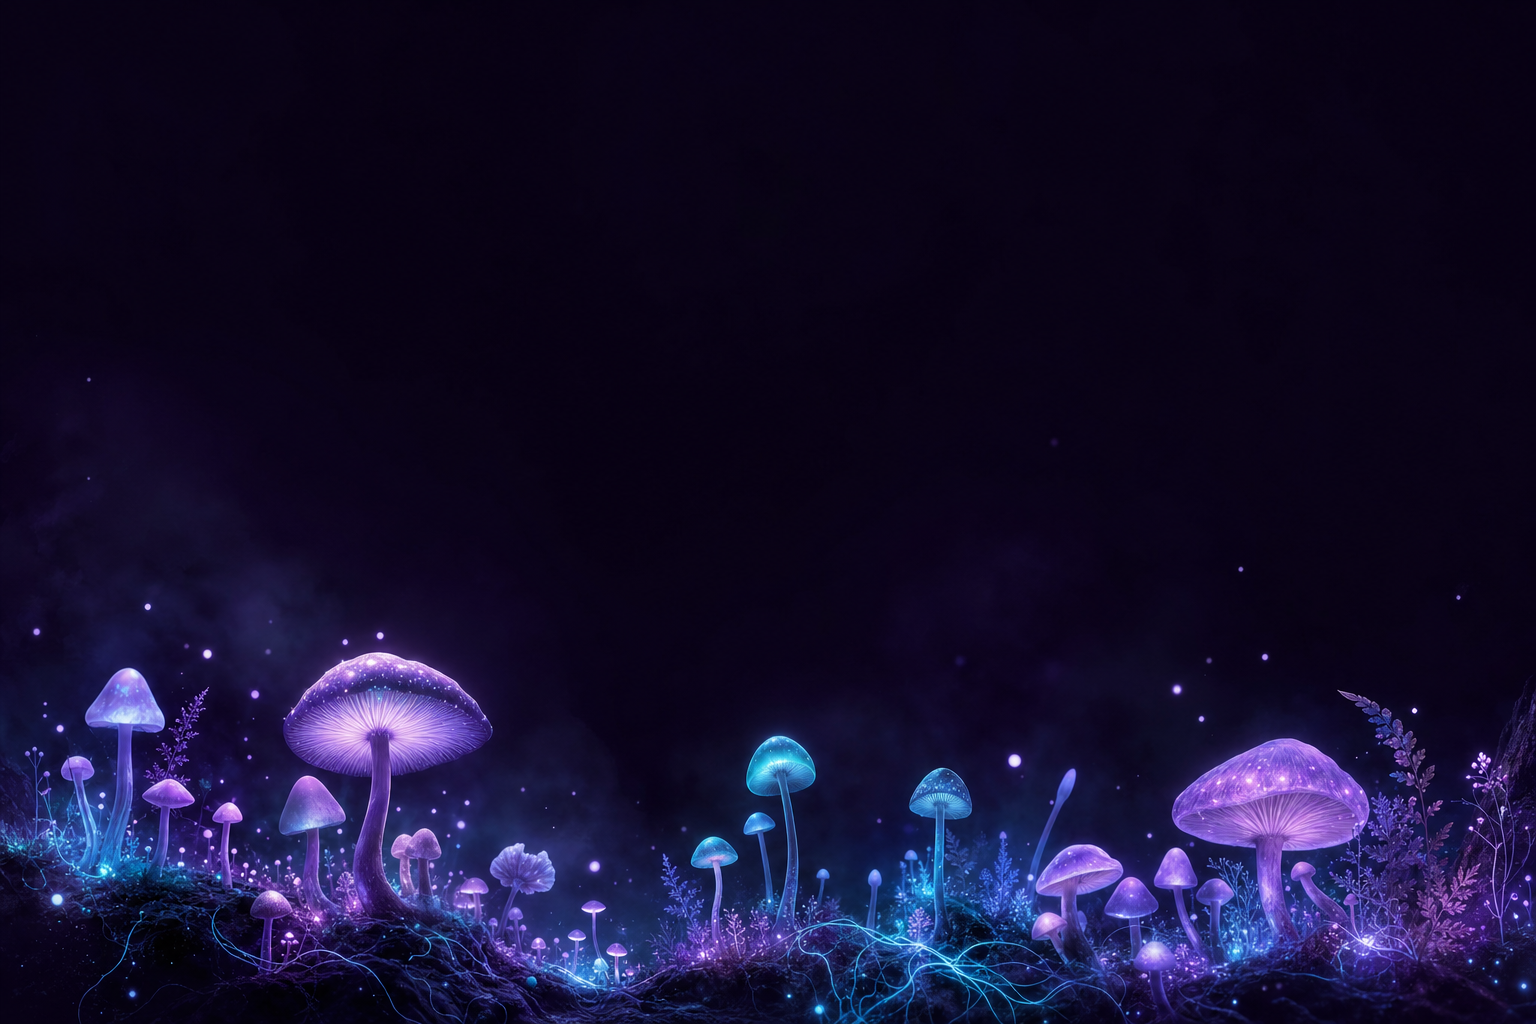
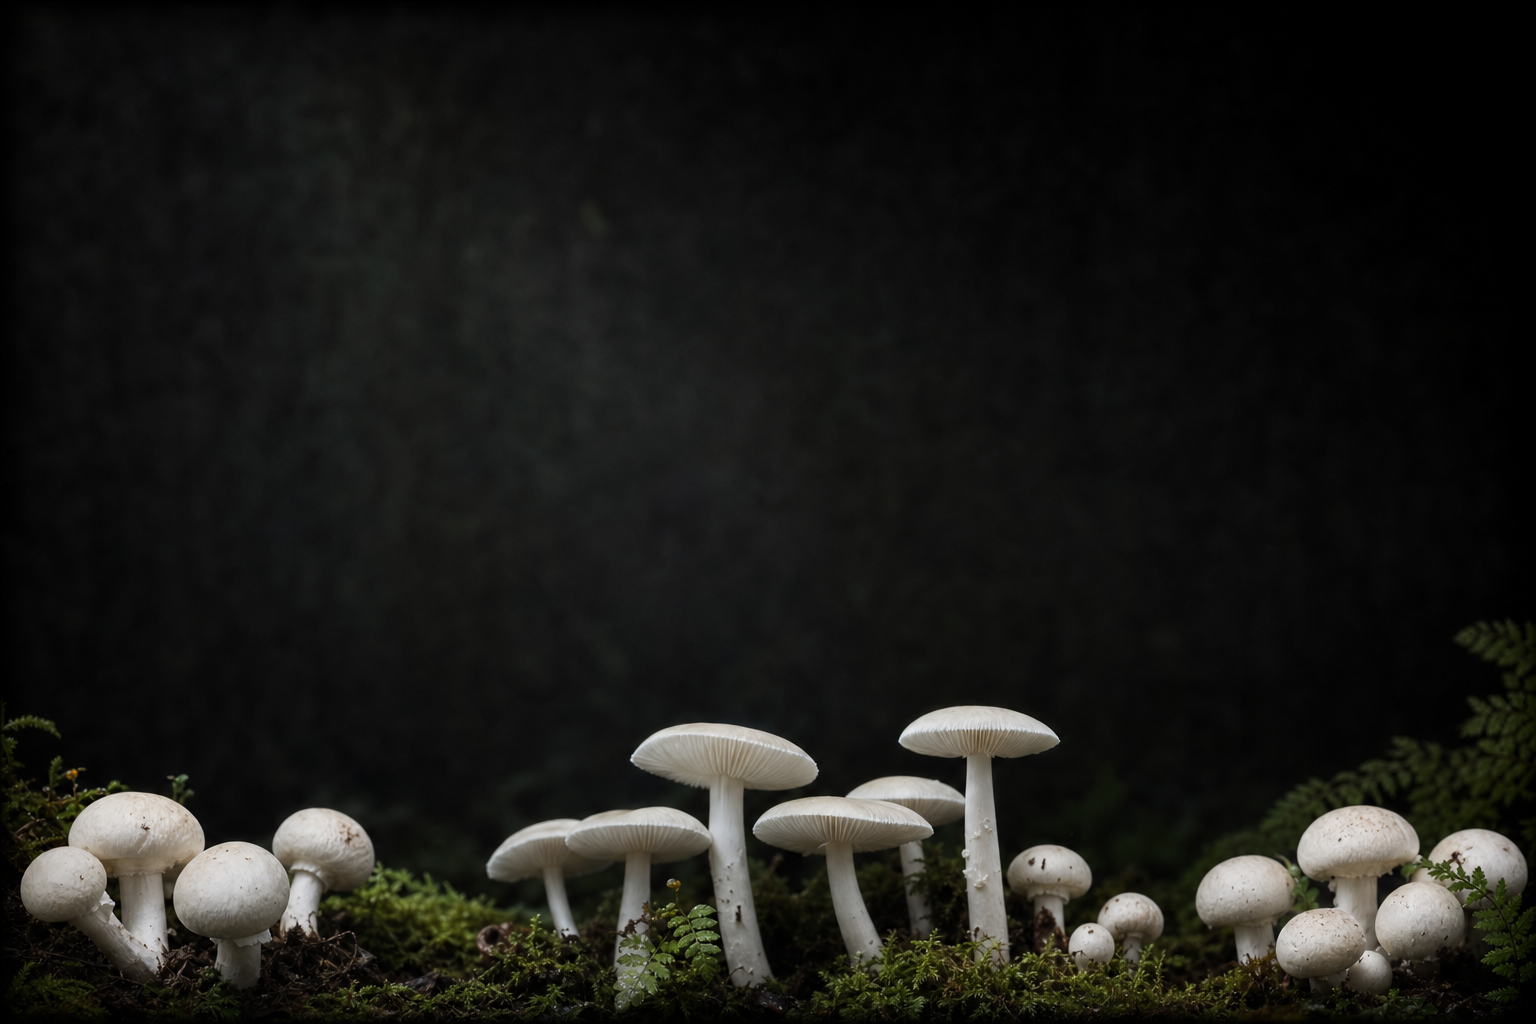
Recolor to red/white/purple, realistic white mushrooms, full-screen spores
- New palette: mushroom-red primary, purple accent (the --nebula token),
  clean warm whites in light mode and a deep near-black in dark mode
- Replace the background with a realistic plain-white mushroom photo
- Spores now tile across both axes so the sparkle fills the whole
  viewport instead of a thin band near the bottom
- Retune body glows, text-cosmic gradient, glow utility, hardcoded
  component glows, and the PWA manifest theme color to match

diff --git a/src/index.css b/src/index.css
@@ -97,96 +97,96 @@
   --radius: 0.75rem;
 
   --background: hsl(0 0% 100%);
-  --foreground: hsl(262 30% 12%);
+  --foreground: hsl(0 10% 12%);
 
   --card: hsl(0 0% 100%);
-  --card-foreground: hsl(262 30% 12%);
+  --card-foreground: hsl(0 10% 12%);
 
   --popover: hsl(0 0% 100%);
-  --popover-foreground: hsl(262 30% 12%);
+  --popover-foreground: hsl(0 10% 12%);
 
-  --primary: hsl(262 73% 57%);
+  --primary: hsl(0 72% 51%);
   --primary-foreground: hsl(0 0% 100%);
 
-  --secondary: hsl(262 40% 96%);
-  --secondary-foreground: hsl(262 47% 24%);
+  --secondary: hsl(0 30% 96%);
+  --secondary-foreground: hsl(0 40% 24%);
 
-  --muted: hsl(260 24% 96%);
-  --muted-foreground: hsl(258 12% 46%);
+  --muted: hsl(20 14% 96%);
+  --muted-foreground: hsl(15 8% 44%);
 
-  --accent: hsl(262 60% 95%);
-  --accent-foreground: hsl(262 47% 24%);
+  --accent: hsl(270 40% 95%);
+  --accent-foreground: hsl(270 50% 24%);
 
   --destructive: hsl(0 84.2% 60.2%);
   --destructive-foreground: hsl(0 0% 100%);
 
-  --border: hsl(260 24% 90%);
-  --input: hsl(260 24% 90%);
-  --ring: hsl(262 73% 57%);
+  --border: hsl(20 14% 90%);
+  --input: hsl(20 14% 90%);
+  --ring: hsl(0 72% 51%);
 
-  --nebula: hsl(190 95% 42%);
+  --nebula: hsl(270 65% 55%);
 
-  --chart-1: hsl(262 73% 57%);
-  --chart-2: hsl(190 95% 42%);
-  --chart-3: hsl(160 60% 45%);
-  --chart-4: hsl(43 96% 56%);
-  --chart-5: hsl(330 81% 60%);
+  --chart-1: hsl(0 72% 51%);
+  --chart-2: hsl(270 65% 55%);
+  --chart-3: hsl(38 92% 50%);
+  --chart-4: hsl(199 70% 48%);
+  --chart-5: hsl(142 50% 45%);
 
-  --sidebar: hsl(260 30% 98%);
-  --sidebar-foreground: hsl(262 20% 26%);
-  --sidebar-primary: hsl(262 73% 57%);
+  --sidebar: hsl(20 20% 98%);
+  --sidebar-foreground: hsl(0 10% 26%);
+  --sidebar-primary: hsl(0 72% 51%);
   --sidebar-primary-foreground: hsl(0 0% 100%);
-  --sidebar-accent: hsl(262 40% 94%);
-  --sidebar-accent-foreground: hsl(262 47% 24%);
-  --sidebar-border: hsl(260 24% 90%);
-  --sidebar-ring: hsl(262 73% 57%);
+  --sidebar-accent: hsl(270 40% 95%);
+  --sidebar-accent-foreground: hsl(270 50% 24%);
+  --sidebar-border: hsl(20 14% 90%);
+  --sidebar-ring: hsl(0 72% 51%);
 }
 
 .dark {
-  --background: hsl(258 45% 5%);
-  --foreground: hsl(255 30% 95%);
+  --background: hsl(150 12% 5%);
+  --foreground: hsl(40 20% 95%);
 
-  --card: hsl(259 38% 9%);
-  --card-foreground: hsl(255 30% 95%);
+  --card: hsl(150 10% 9%);
+  --card-foreground: hsl(40 20% 95%);
 
-  --popover: hsl(259 40% 8%);
-  --popover-foreground: hsl(255 30% 95%);
+  --popover: hsl(150 12% 7%);
+  --popover-foreground: hsl(40 20% 95%);
 
-  --primary: hsl(264 90% 72%);
-  --primary-foreground: hsl(260 50% 8%);
+  --primary: hsl(0 80% 62%);
+  --primary-foreground: hsl(0 0% 100%);
 
-  --secondary: hsl(260 32% 16%);
-  --secondary-foreground: hsl(255 30% 95%);
+  --secondary: hsl(150 8% 16%);
+  --secondary-foreground: hsl(40 20% 95%);
 
-  --muted: hsl(260 28% 14%);
-  --muted-foreground: hsl(256 18% 68%);
+  --muted: hsl(150 8% 14%);
+  --muted-foreground: hsl(40 10% 68%);
 
-  --accent: hsl(260 32% 20%);
-  --accent-foreground: hsl(255 30% 95%);
+  --accent: hsl(270 30% 18%);
+  --accent-foreground: hsl(40 20% 95%);
 
-  --destructive: hsl(351 80% 60%);
+  --destructive: hsl(0 80% 62%);
   --destructive-foreground: hsl(0 0% 100%);
 
-  --border: hsl(262 30% 20%);
-  --input: hsl(262 30% 18%);
-  --ring: hsl(264 90% 72%);
+  --border: hsl(150 10% 18%);
+  --input: hsl(150 10% 16%);
+  --ring: hsl(0 80% 62%);
 
-  --nebula: hsl(190 90% 60%);
+  --nebula: hsl(270 70% 68%);
 
-  --chart-1: hsl(264 90% 72%);
-  --chart-2: hsl(190 90% 60%);
-  --chart-3: hsl(160 65% 55%);
-  --chart-4: hsl(43 96% 64%);
-  --chart-5: hsl(322 85% 68%);
+  --chart-1: hsl(0 80% 62%);
+  --chart-2: hsl(270 70% 68%);
+  --chart-3: hsl(38 92% 58%);
+  --chart-4: hsl(199 75% 58%);
+  --chart-5: hsl(142 55% 55%);
 
-  --sidebar: hsl(259 42% 7%);
-  --sidebar-foreground: hsl(255 24% 88%);
-  --sidebar-primary: hsl(264 90% 72%);
-  --sidebar-primary-foreground: hsl(260 50% 8%);
-  --sidebar-accent: hsl(260 32% 15%);
-  --sidebar-accent-foreground: hsl(255 30% 95%);
-  --sidebar-border: hsl(262 30% 18%);
-  --sidebar-ring: hsl(264 90% 72%);
+  --sidebar: hsl(150 12% 7%);
+  --sidebar-foreground: hsl(40 16% 88%);
+  --sidebar-primary: hsl(0 80% 62%);
+  --sidebar-primary-foreground: hsl(0 0% 100%);
+  --sidebar-accent: hsl(270 30% 16%);
+  --sidebar-accent-foreground: hsl(40 20% 95%);
+  --sidebar-border: hsl(150 10% 16%);
+  --sidebar-ring: hsl(0 80% 62%);
 }
 
 @layer base {
@@ -215,28 +215,30 @@
     background:
       radial-gradient(
         38rem 38rem at 15% 105%,
-        hsl(264 90% 60% / 0.20),
+        hsl(0 72% 50% / 0.18),
         transparent 60%
       ),
       radial-gradient(
         34rem 34rem at 85% 108%,
-        hsl(190 90% 55% / 0.16),
+        hsl(270 65% 55% / 0.16),
         transparent 60%
       ),
       radial-gradient(
         44rem 44rem at 50% 120%,
-        hsl(290 85% 62% / 0.14),
+        hsl(0 70% 52% / 0.12),
         transparent 62%
       ),
       radial-gradient(
         40rem 40rem at 80% -10%,
-        hsl(264 70% 50% / 0.10),
+        hsl(270 60% 55% / 0.10),
         transparent 60%
       );
   }
 
   /* Mycelium grove: a row of glowing mushrooms anchored to the bottom of the
-     viewport, with drifting spores floating up through the dark above them. */
+     viewport, plus drifting spores that fill the whole screen. Each spore
+     layer is a small tile repeated across both axes so the sparkle covers the
+     entire viewport (not just a band), with a slow upward drift. */
   body::after {
     content: '';
     position: fixed;
@@ -244,30 +246,29 @@
     z-index: -1;
     pointer-events: none;
     background-image:
-      /* Drifting spores rising from the grove floor. */
-      radial-gradient(1.5px 1.5px at 20% 92%, hsl(264 80% 85% / 0.9), transparent),
-      radial-gradient(1px 1px at 75% 88%, hsl(190 80% 80% / 0.8), transparent),
-      radial-gradient(1.5px 1.5px at 50% 95%, hsl(290 80% 82% / 0.85), transparent),
-      radial-gradient(1px 1px at 85% 96%, hsl(264 80% 85% / 0.7), transparent),
-      radial-gradient(1px 1px at 33% 86%, hsl(190 80% 82% / 0.7), transparent),
-      radial-gradient(1.5px 1.5px at 8% 97%, hsl(290 80% 82% / 0.8), transparent),
-      radial-gradient(1px 1px at 65% 90%, hsl(255 30% 96% / 0.5), transparent),
+      /* Drifting spores — one dot per tile, tiled across the whole screen. */
+      radial-gradient(2px 2px at 30px 40px, hsl(40 30% 96% / 0.9), transparent),
+      radial-gradient(1.5px 1.5px at 140px 90px, hsl(270 65% 75% / 0.8), transparent),
+      radial-gradient(2px 2px at 90px 180px, hsl(0 70% 70% / 0.7), transparent),
+      radial-gradient(1px 1px at 200px 50px, hsl(40 30% 96% / 0.7), transparent),
+      radial-gradient(1.5px 1.5px at 250px 160px, hsl(270 65% 78% / 0.7), transparent),
+      radial-gradient(1px 1px at 60px 120px, hsl(40 30% 96% / 0.6), transparent),
       /* The mushroom grove, anchored to the bottom edge, spanning full width. */
       image-set(url('/mushrooms.png') 1x);
     background-repeat:
-      repeat-x, repeat-x, repeat-x, repeat-x, repeat-x, repeat-x, repeat-x,
+      repeat, repeat, repeat, repeat, repeat, repeat,
       no-repeat;
     background-position:
-      0 0, 0 0, 0 0, 0 0, 0 0, 0 0, 0 0,
+      0 0, 0 0, 0 0, 0 0, 0 0, 0 0,
       center bottom;
     background-size:
-      320px 320px, 280px 280px, 360px 360px, 300px 300px, 340px 340px, 260px 260px, 380px 380px,
+      300px 300px, 360px 360px, 320px 320px, 280px 280px, 340px 340px, 260px 260px,
       100% auto;
-    opacity: 0.55;
+    opacity: 0.5;
   }
 
   .dark body::after {
-    opacity: 0.9;
+    opacity: 0.85;
   }
 
   @media (prefers-reduced-motion: no-preference) {
@@ -282,12 +283,12 @@
 @keyframes spore-drift {
   from {
     background-position:
-      0 0, 0 0, 0 0, 0 0, 0 0, 0 0, 0 0,
+      0 0, 0 0, 0 0, 0 0, 0 0, 0 0,
       center bottom;
   }
   to {
     background-position:
-      0 -200px, 0 -240px, 0 -180px, 0 -220px, 0 -260px, 0 -200px, 0 -300px,
+      0 -300px, 0 -360px, 0 -320px, 0 -280px, 0 -340px, 0 -260px,
       center bottom;
   }
 }
@@ -312,19 +313,19 @@
   }
 }
 
-/* Soft outer glow tuned to the primary nebula color. */
+/* Soft outer glow tuned to the primary mushroom-red color. */
 @utility glow {
   box-shadow:
-    0 0 0 1px hsl(264 90% 72% / 0.12),
-    0 8px 40px -8px hsl(264 90% 60% / 0.35);
+    0 0 0 1px hsl(0 80% 62% / 0.12),
+    0 8px 40px -8px hsl(0 80% 55% / 0.35);
 }
 
-/* Gradient text in the cosmic violet -> cyan sweep. */
+/* Gradient text sweeping from mushroom red through to forest purple. */
 @utility text-cosmic {
   background-image: linear-gradient(
     100deg,
     var(--primary) 0%,
-    hsl(290 85% 72%) 42%,
+    hsl(330 75% 60%) 45%,
     var(--nebula) 100%
   );
   background-clip: text;

diff --git a/src/components/Layout.tsx b/src/components/Layout.tsx
@@ -30,7 +30,7 @@ function Logo() {
       className="group flex items-center gap-2.5 font-display font-semibold text-lg tracking-tight focus-visible:outline-none focus-visible:ring-2 focus-visible:ring-ring rounded-md"
     >
       <span
-        className="grid size-9 place-items-center text-2xl leading-none transition-transform duration-500 group-hover:rotate-[12deg] group-hover:scale-110 drop-shadow-[0_0_10px_hsl(264_90%_72%/0.55)]"
+        className="grid size-9 place-items-center text-2xl leading-none transition-transform duration-500 group-hover:rotate-[12deg] group-hover:scale-110 drop-shadow-[0_0_10px_hsl(0_80%_62%/0.55)]"
         aria-hidden="true"
       >
         🍄

diff --git a/src/components/NipCard.tsx b/src/components/NipCard.tsx
@@ -44,7 +44,7 @@ export function NipCard({ nip }: { nip: RankedNip }) {
         <CardContent className="flex h-full flex-col gap-3 px-4">
           <div className="flex-1 space-y-1.5">
             {nip.number && (
-              <span className="font-mono text-sm font-semibold text-primary transition-[text-shadow] duration-300 group-hover:[text-shadow:0_0_12px_hsl(264_90%_72%/0.7)]">
+              <span className="font-mono text-sm font-semibold text-primary transition-[text-shadow] duration-300 group-hover:[text-shadow:0_0_12px_hsl(0_80%_62%/0.7)]">
                 NIP-{nip.number}
               </span>
             )}

diff --git a/src/pages/Index.tsx b/src/pages/Index.tsx
@@ -36,7 +36,7 @@ function draftToRanked(nip: CustomNip): RankedNip {
 function SectionHeading({ icon, title, subtitle }: { icon: React.ReactNode; title: string; subtitle?: string }) {
   return (
     <div className="flex items-center gap-2">
-      <span className="text-primary drop-shadow-[0_0_8px_hsl(264_90%_72%/0.6)]">{icon}</span>
+      <span className="text-primary drop-shadow-[0_0_8px_hsl(0_80%_62%/0.6)]">{icon}</span>
       <div>
         <h2 className="font-display text-xl font-semibold tracking-tight">{title}</h2>
         {subtitle && <p className="text-sm text-muted-foreground">{subtitle}</p>}
